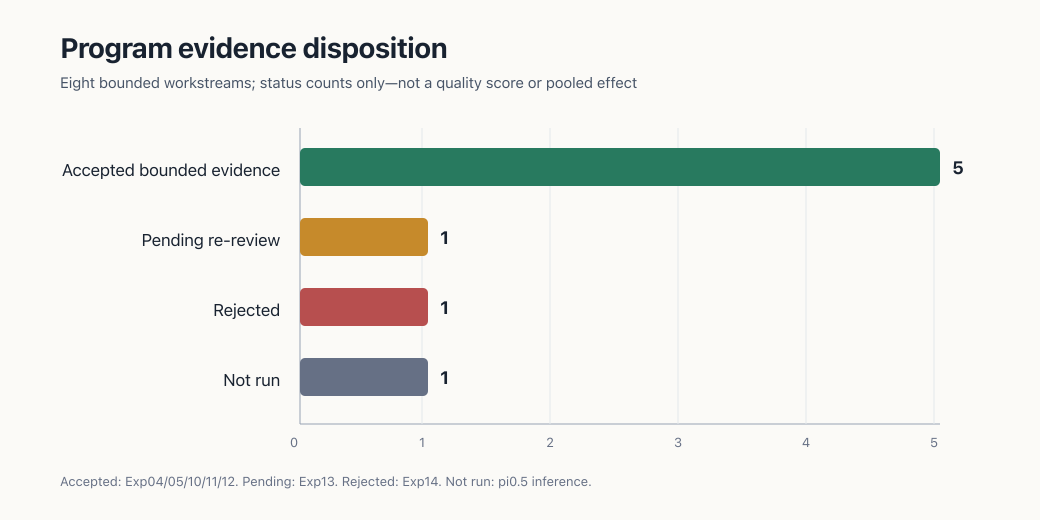
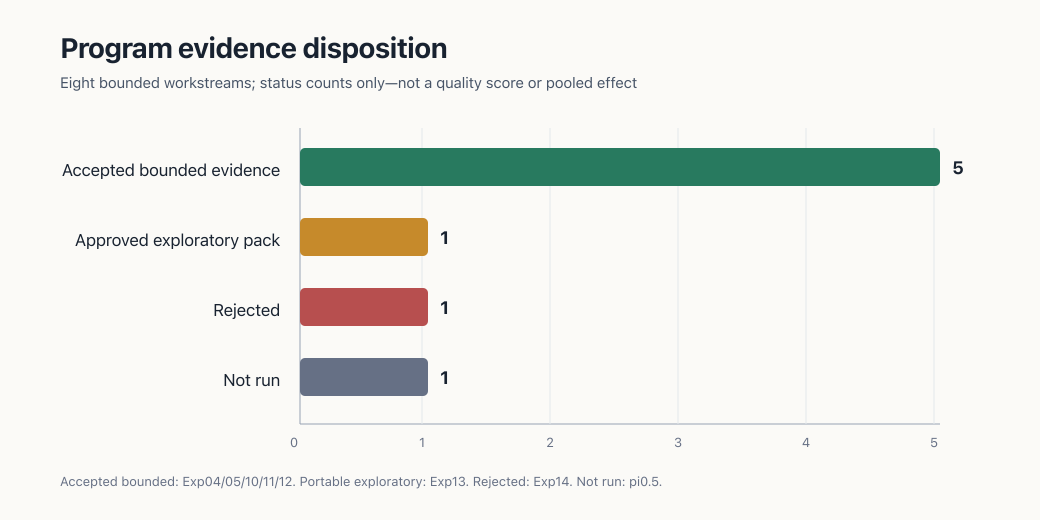
docs: record approved portable Exp13 pack

Changed region(s): [[0.1231, 0.8923, 0.6462, 0.9538], [0.0615, 0.4308, 0.2769, 0.4923]]

diff --git a/reports/program-evidence/PROGRAM_EVIDENCE_LEDGER.md b/reports/program-evidence/PROGRAM_EVIDENCE_LEDGER.md
@@ -4,7 +4,7 @@ Date: 2026-08-24. Synthesis base: `80efbd25c7812b9edd077b70e29eb35a0019ad79`.
 
 ## Decision
 
-The current evidence justifies a **typed, layered synthetic reference architecture**, not completion of the Reflect Lite research program. Five bounded workstreams are accepted at their narrow scopes. They support keeping live belief separate from durable geometry/semantics, keeping episodic events separately addressable, separating appearance-sensitive semantics from geometry, and making refresh/retrigger/replan explicit policies. They do not yet establish a learned VLA policy, real perception, physical transfer, an end-to-end three-level hierarchy, or that recovery should always occur at the lowest sufficient level.
+The current evidence justifies a **typed, layered synthetic reference architecture**, not completion of the Reflect Lite research program. Five bounded workstreams are accepted at their narrow scientific or engineering scopes; Exp13 is separately approved only as a portable exploratory pack whose formal disposition remains `INVALID_EXPERIMENT`. Together they support keeping live belief separate from durable geometry/semantics, keeping episodic events separately addressable, separating appearance-sensitive semantics from geometry, and making refresh/retrigger/replan explicit policies. They do not yet establish a learned VLA policy, real perception, physical transfer, an end-to-end three-level hierarchy, or that recovery should always occur at the lowest sufficient level.
 
 The cross-experiment graphic is deliberately a disposition count. Effect sizes from different simulators, endpoints, and seed units are not pooled.
 
@@ -21,7 +21,7 @@ Source table: `cross-experiment-evidence.csv`. Reconstruct the SVG by grouping i
 | Exp10 storage x trigger | **Accepted strict synthetic white-box engineering evidence.** Oracle typed semantics, not VLA. | Under periodic triggering, `LIVE_EPISODIC - FIXED_SNAPSHOT` completion `+0.75000000`; under no memory, `HYBRID - PERIODIC_ONLY` `+0.40833333` `[+0.375,+0.44166667]`, n=20 seed clusters. | Freeze `11fb668`; evidence `4a570e1`; lifecycle head `df3ba59`; approval merge `b92a90f`; matrix SHA-256 `d564d798…920a`. |
 | Exp11 trigger dose response | **Accepted synthetic typed-oracle engineering evidence.** Not VLA or robot evidence. | All 84 registered outcome gates passed across 28 effects; n=12 seed clusters, 10,000 draws. Prompt completion contrasts were exactly zero while prompt cost changed, so wording is not promoted as a semantic-control mechanism. | Freeze `e1cd3b3`; evidence `ffc27b8`; lifecycle head `8f719ec`; approval merge `2c3ffa1`; root-manifest SHA-256 `fe3d5e74…ccb0a`. |
 | Exp12 opaque→glass-like | **Accepted indicative synthetic rendered-transfer evidence.** Appearance-only matched MuJoCo manipulation. | Glass-like safe completion: RGB-only `0/12`; RGB-D motion `12/12`; hierarchy `12/12`. Geometry-aware transfer drop was zero; hierarchy and RGB-D were identical. | Freeze `f0bd0ca`; evidence `1ef923f`; final verifier `2b9fd50`; approval merge `df42bf8`; V3 manifest SHA-256 `36694e7c…0497`. |
-| Exp13 direct hierarchy | **Pending re-review; currently exploratory/invalid for promotion.** V1/V2 remain `INVALID_PARTIAL`; V3 evidence-only repair is not accepted yet. | Local replay is suggestive (`R0=.3604`, `R1=.7568`, `R2=1.0000`, `R3=.9910`, n=10), but it cannot presently support hierarchy or causal-lowest claims. | Source `59753c2`; freeze `bf5268e` (freeze SHA-256 `324e8c4f…ddb3c`); analysis `5704a94`; seal `7fc0fec`; tracked inventory SHA-256 `552cb44e…1f93`. The 1.3 GB raw tree was ignored/local rather than clean-clone portable, and reconstruction/authentication accepted coherent substitutions. |
[1 lines of base64/hex data omitted]
 | Exp14 mission ceiling | **Rejected: `REJECTED_EVIDENCE_AUTH`.** Descriptive deterministic mission-logic replay only. | Full-minus-open completion descriptively `+0.1866319` `[+0.1822917,+0.1931424]`, n=12, but live-memory and lower-recovery behavior was identical in all 2,304 pairs. | Source `23a300f`; evidence `e8b8198`; review `52fb19b`; review SHA-256 `72716ea3…03a6`. Coherent evidence substitution passed qualification; graphs/shards/mission heterogeneity were incomplete. |
 | Exp09 pi0.5 | **`NOT_RUN`.** Static interface finding and synthetic transport fixture only. | Pinned OpenPI source closes the public DROID response to 15x8 actions plus timing. No checkpoint download, forward pass, semantic plan, model outcome, or physical execution occurred. | Pinned OpenPI `15a9616a…2ccac`; probe head `914fd12`; root evidence-manifest SHA-256 `cf380674…c2f0`. |
 
@@ -36,17 +36,17 @@ Ellipses above abbreviate hashes only for readability; the CSV records every cit
 | Semantic object graph ↔ geometric/topological twin | **Separate appearance/labels from metric collision geometry while retaining typed identity links.** | Exp05 layer ownership; Exp12 RGB fails on glass-like appearance while depth geometry transfers. | Real glass/refraction/depth dropout, learned grounding, calibration drift, dynamic-object physics. |
 | Mission → semantic planner → typed `SkillSpec` | **Retain as the intended boundary, not an empirical selection yet.** Semantic planner owns predicates, constraints, skill selection, verification, and semantic replan—not motor targets. | Exp05 typed planning boundary and Exp14’s bounded mission-logic observations are interface probes. | Exp14 is rejected and receives full ground truth; pi0.5 emitted no semantic plan. Learned planner quality and paraphrase robustness remain open. |
 | Semantic retry/replan | **Use explicit triggers for invalid preconditions, object/restriction change, or failed verification.** | Exp10 storage×trigger interactions; Exp11 dose-response and disturbance heterogeneity; Exp05 instruction/restriction handling. | Trigger results use typed oracles. False-trigger costs under learned perception and end-to-end semantic replanning are not established. |
-| Motion refresh/retrigger/replan | **Expose separately from semantic replanning.** Geometry-aware motion may replan without changing mission semantics. | Exp12 shows a geometry-aware motion path transfers across appearance; Exp10/11 distinguish failure families and trigger policies. | Exp12 contains no post-plan recovery event and its hierarchy equals RGB-D motion. Direct physical motion-recovery outcomes await accepted Exp13 evidence. |
+| Motion refresh/retrigger/replan | **Expose separately from semantic replanning.** Geometry-aware motion may replan without changing mission semantics. | Exp12 shows a geometry-aware motion path transfers across appearance; Exp10/11 distinguish failure families and trigger policies. Exp13 now supplies a portable exploratory disposition pack. | Exp12 contains no post-plan recovery event and its hierarchy equals RGB-D motion. Exp13 remains a formally invalid exploratory experiment, not accepted confirmatory motion-recovery evidence. |
 | Control retry / fast stabilization | **Keep local and bounded in the contract, but do not claim its selected implementation from this synthesis.** | Exp10/11 control-failure strata provide engineering trigger checks. | No accepted physical PID/impedance/whole-body comparison here; no validated control-level causal recovery result. |
 | `SkillSpec` → policy representation → action chunk/MPC/residual → executor | **Unresolved by this evidence subset.** Preserve typed interfaces and explicit validity/age/fallback fields. | Program contract plus engineering closure only. | Representation choice, temporal protocol, learned-policy latency, and VLA-to-controller transfer require the dedicated accepted experiments or new runs; they are not inferred from Exp04/05/10/11/12. |
-| Recovery at lowest sufficient layer | **Plausible design rule, not a demonstrated causal law.** | Exp10/11 show layer-specific trigger effects in constructed typed-oracle dynamics. | Exp13 is pending re-review; Exp14’s lower-recovery variant is behaviorally identical to live memory. No promotion to causal-lowest. |
+| Recovery at lowest sufficient layer | **Plausible design rule, not a demonstrated causal law.** | Exp10/11 show layer-specific trigger effects in constructed typed-oracle dynamics; Exp13 preserves bounded exploratory direct outcomes. | Exp13 explicitly sets `causal_lowest_claim=false`; Exp14’s lower-recovery variant is behaviorally identical to live memory. No promotion to causal-lowest. |
 | Learned world model / VLA | **Gap: no runtime role selected.** | pi0.5 static inspection identifies an action-only public boundary. | Model inference is `NOT_RUN`; no VLA semantics, candidate ranking, veto value, latency, or downstream task outcome exists. |
 
 ## What is scientifically supported now
 
 1. **Synthetic causal:** online, separately addressable semantic and episodic memory beats a fixed snapshot in Exp04’s matched generator; geometry-derived sensing resists the appearance manipulation that defeats RGB-only detection in Exp12.
 2. **Engineering:** typed twin layers, explicit provenance, and explicit trigger policies are useful implementation choices in Exp05/10/11’s frozen constructed worlds.
-3. **Exploratory only:** Exp13’s direct hierarchy pattern may motivate re-review after portable evidence repair, but its current bytes do not authorize a result.
+3. **Exploratory portable only:** Exp13’s corrected compact pack is independently approved as reconstructable exploratory evidence. Its formal `INVALID_EXPERIMENT` disposition, local-only full trace root, and no-confirmatory/no-causal limits remain controlling.
 4. **Rejected:** Exp14 cannot qualify a mission-memory/recovery mechanism despite replayable descriptive raw facts.
 5. **Not run:** pi0.5 model inference and the external VLA lane remain open.
 
@@ -64,4 +64,4 @@ timestamped live belief/confidence/provenance
 
 Recent robot state remains an executor input, but no accepted result in this synthesis selects its production retention policy. A learned world model has no measured bounded decision role. Unitree R1 transfer, remote GPU/VLA inference, real sensors, and physical deployment remain outside the accepted evidence.
 
-Therefore the program status is **PARTIAL_INDICATIVE_EVIDENCE — CONTINUE**, not `COMPLETE`. The next promotion gate is not more scaffolding: independently re-review the evidence-only Exp13 repair, then run one compact learned-policy/VLA inference study and one accepted direct layer-recovery study with portable raw traces. Only after those pass should the full architecture arrow diagram be called experimentally selected.
+Therefore the program status is **PARTIAL_INDICATIVE_EVIDENCE — CONTINUE**, not `COMPLETE`. The next promotion gate is not more scaffolding: run one compact learned-policy/VLA inference study and one new valid confirmatory direct layer-recovery study with portable full raw traces. Only after those pass should the full architecture arrow diagram be called experimentally selected.
